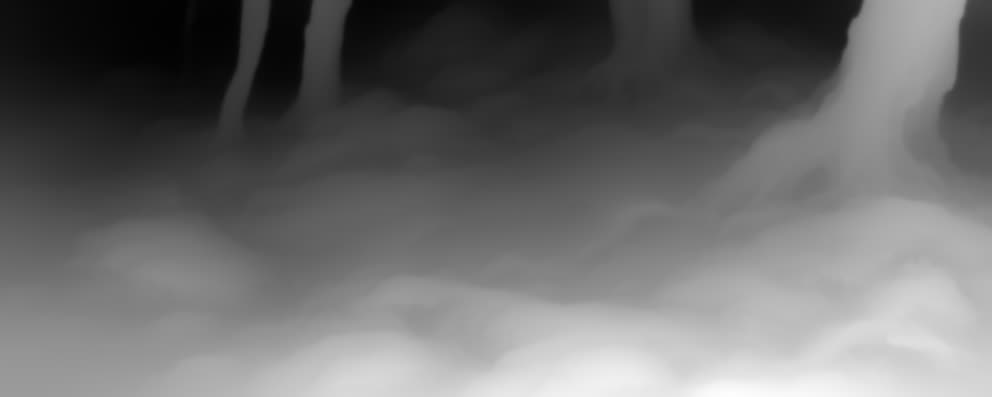
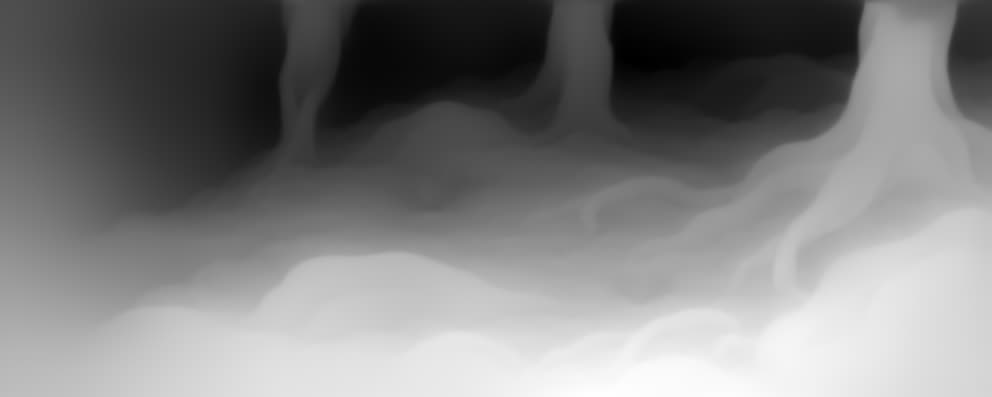
辋川卧游·鹿柴：四幅画按唐人画法重画（勾线平涂，无皴无渲染）
懂画的人指出上一版的青绿带渲染，唐代没有；改照《女史箴图》唐摹本的画法：以线为主、
颜色淡而平、苔与树丛细线圈出再填色，画上不画光影。返照与树影全由着色器叠。

diff --git a/wangchuan/main.js b/wangchuan/main.js
@@ -26,10 +26,10 @@ precision highp float;
 uniform sampler2D uTex, uDepth;
 uniform vec2 uRes, uPar, uLight, uLightR;
 uniform vec2 uTr[4];
-uniform float uCx, uZoom, uPush, uTime, uR, uVeil, uPaper, uWarm, uGlow, uBaked, uShadow, uDusk, uSun;
+uniform float uCx, uZoom, uPush, uTime, uR, uVeil, uPaper, uWarm, uGlow, uShadow, uDusk, uSun;
 
 const vec3 PAPER = vec3(0.885, 0.795, 0.625);
-const vec3 MIST = vec3(0.815, 0.725, 0.500);
+const vec3 MIST = vec3(0.880, 0.720, 0.400);
 
 float hash(vec2 p){ p = fract(p * vec2(123.34, 456.21)); p += dot(p, p + 45.32); return fract(p.x * p.y); }
 float noise(vec2 p){ vec2 i = floor(p), f = fract(p); f = f*f*(3.-2.*f);
@@ -65,7 +65,7 @@ void main(){
     float band = smoothstep(0.10, 0.38, w.y) * smoothstep(0.98, 0.60, w.y);
     float n = fbm(vec2(w.x * 1.25 - uTime * 0.011, w.y * 2.4 + uTime * 0.004));
     float breath = 0.5 + 0.5 * sin(uTime * 0.42);
-    col = mix(col, MIST, far * band * smoothstep(0.38, 0.78, n) * (0.16 + 0.12 * breath));
+    col = mix(col, MIST, far * band * smoothstep(0.38, 0.78, n) * (0.10 + 0.08 * breath));
 
     // 返景：落下来的那片暖色，是染出来的，不是光柱。
     vec2 e = (q - uLight) / uLightR;
@@ -84,10 +84,10 @@ void main(){
     }
     float shade = clamp(leaf * 0.55 + trunk * 0.95, 0.0, 1.0) * uShadow;
     float flick = 0.86 + 0.14 * sin(uTime * 0.31 + 1.3) * sin(uTime * 0.13);
-    // 画里本来就染了这片暖色；光还没照进来、或者已经移走时，把它压暗
-    col *= 1.0 - (1.0 - uBaked) * 0.30 * smoothstep(0.02, 0.7, g);
-    col += vec3(0.50, 0.36, 0.06) * g * flick * uGlow * (1.0 - 0.80 * shade) * (0.55 + 0.45 * smoothstep(0.2, 0.8, d));
-    col *= 1.0 - 0.22 * shade * smoothstep(0.05, 0.6, g) * uGlow;
+    // 画是勾线平涂的，上面不画光；这片暖色是叠上去的：先把绢色提亮染暖，再在光里压出影子
+    float lit = g * flick * uGlow;
+    col = col * (1.0 + vec3(0.30, 0.22, 0.02) * lit) + vec3(0.16, 0.10, 0.00) * lit * (1.0 - 0.85 * shade);
+    col *= 1.0 - 0.30 * shade * smoothstep(0.05, 0.6, g) * min(1.0, uGlow * 1.6);
     // 日头落下去以后，林子略略沉下来
     col *= mix(vec3(1.0), vec3(0.84, 0.86, 0.90), uDusk);
 
@@ -121,7 +121,7 @@ void main(){
   const loc = gl.getAttribLocation(prog, 'a');
   gl.enableVertexAttribArray(loc); gl.vertexAttribPointer(loc, 2, gl.FLOAT, false, 0, 0);
   const U = {};
-  for (const n of ['uTex', 'uDepth', 'uRes', 'uPar', 'uLight', 'uLightR', 'uCx', 'uZoom', 'uPush', 'uTime', 'uR', 'uVeil', 'uPaper', 'uWarm', 'uGlow', 'uBaked', 'uShadow', 'uDusk', 'uSun', 'uTr']) U[n] = gl.getUniformLocation(prog, n);
+  for (const n of ['uTex', 'uDepth', 'uRes', 'uPar', 'uLight', 'uLightR', 'uCx', 'uZoom', 'uPush', 'uTime', 'uR', 'uVeil', 'uPaper', 'uWarm', 'uGlow', 'uShadow', 'uDusk', 'uSun', 'uTr']) U[n] = gl.getUniformLocation(prog, n);
 
   function loadTex(src) {
     return new Promise((res, rej) => {
@@ -218,22 +218,22 @@ void main(){
       gl.uniform1f(U.uWarm, s.warm);
 
       // 光：第三景里从右边照进来、落到苔上；第四景里停在苔上，树影慢慢挪，末了移走
-      let lx = 0, ly = 0, glow = 0, baked = 1, shadow = 0, dusk = 0, sun = 0;
+      let lx = 0, ly = 0, glow = 0, shadow = 0, dusk = 0, sun = 0;
       if (s.light) {
         const li = s.light; lx = li.u; ly = li.v;
         if (li.enterFrom) {
           const k = L.ease(L.clamp01(u / li.arrive));
           lx = li.enterFrom[0] + (li.u - li.enterFrom[0]) * k; ly = li.enterFrom[1] + (li.v - li.enterFrom[1]) * k;
-          glow = 0.20 + 0.22 * k; baked = k; shadow = 0.35 + 0.45 * k; sun = 0.2 * u;
+          glow = 0.35 + 0.45 * k; shadow = 0.35 + 0.50 * k; sun = 0.2 * u;
         } else {
           const gone = L.ease(L.clamp01((u - li.leave) / (1 - L.FADE - li.leave)));
           lx = li.u - 0.05 * u; ly = li.v - 0.012 * u;
-          glow = 0.34 * (1 - gone); baked = 1 - gone; shadow = 1; dusk = gone; sun = 0.3 + 0.7 * u;
+          glow = 0.85 * (1 - gone); shadow = 1; dusk = gone; sun = 0.3 + 0.7 * u;
         }
         gl.uniform2f(U.uLightR, li.ru, li.rv);
       } else gl.uniform2f(U.uLightR, 0.05, 0.05);
       gl.uniform2f(U.uLight, lx, ly);
-      gl.uniform1f(U.uGlow, s.light ? glow : 0); gl.uniform1f(U.uBaked, baked);
+      gl.uniform1f(U.uGlow, s.light ? glow : 0);
       gl.uniform1f(U.uShadow, shadow); gl.uniform1f(U.uDusk, dusk); gl.uniform1f(U.uSun, sun);
       gl.uniform2fv(U.uTr, new Float32Array((s.trunks || [[9, 9], [9, 9], [9, 9], [9, 9]]).flat()));
     } else {

diff --git a/wangchuan/layout.js b/wangchuan/layout.js
@@ -15,14 +15,14 @@
   // light：返照落在画里的位置和大小（没有就不写）。trunks：会在返照里落影的几根树干，[横向位置, 树根的纵向位置]。
   // seconds：没人碰时这一景自己走多久。voice：这一景里人语有多近。warm：傍晚的暖意有多重。
   const SCENES = [
-    { key: 's1', line: '空山不见人', from: 0.66, to: 0.30, seconds: 16, voice: 0.12, warm: 0.25 },
-    { key: 's2', line: '但闻人语响', from: 0.80, to: 0.34, seconds: 17, voice: 1.00, warm: 0.45 },
-    { key: 's3', line: '返景入深林', from: 0.78, to: 0.60, seconds: 20, voice: 0.45, warm: 0.80,
-      light: { u: 0.728, v: 0.805, ru: 0.060, rv: 0.034, enterFrom: [0.99, 0.56], arrive: 0.45 },
-      trunks: [[0.80, 0.74], [0.87, 0.70], [0.94, 0.73], [0.77, 0.69]] },
-    { key: 's4', line: '复照青苔上', from: 0.64, to: 0.52, seconds: 22, voice: 0.20, warm: 1.00,
-      light: { u: 0.60, v: 0.46, ru: 0.15, rv: 0.16, leave: 0.72 },
-      trunks: [[0.93, 0.36], [0.65, 0.20], [0.72, 0.30], [0.33, 0.22]] },
+    { key: 's1', line: '空山不见人', from: 0.68, to: 0.40, seconds: 16, voice: 0.12, warm: 0.25 },
+    { key: 's2', line: '但闻人语响', from: 0.80, to: 0.36, seconds: 17, voice: 1.00, warm: 0.45 },
+    { key: 's3', line: '返景入深林', from: 0.78, to: 0.58, seconds: 20, voice: 0.45, warm: 0.80,
+      light: { u: 0.63, v: 0.80, ru: 0.085, rv: 0.050, enterFrom: [0.99, 0.50], arrive: 0.45 },
+      trunks: [[0.72, 0.72], [0.80, 0.63], [0.88, 0.56], [0.57, 0.78]] },
+    { key: 's4', line: '复照青苔上', from: 0.60, to: 0.47, seconds: 22, voice: 0.20, warm: 1.00,
+      light: { u: 0.52, v: 0.62, ru: 0.16, rv: 0.17, leave: 0.72 },
+      trunks: [[0.88, 0.45], [0.72, 0.52], [0.57, 0.27], [0.30, 0.33]] },
   ];
   const N = SCENES.length;
   const HOLD = 4;                     // 开场停几秒才开始自己走

diff --git a/wangchuan/index.html b/wangchuan/index.html
@@ -4,7 +4,7 @@
 <meta charset="utf-8">
 <meta name="viewport" content="width=device-width, initial-scale=1, viewport-fit=cover, user-scalable=no">
 <title>鹿柴 · 辋川卧游</title>
-<meta name="description" content="王维《鹿柴》，一段可以走进去的盛唐青绿山水。">
+<meta name="description" content="王维《鹿柴》，四句诗四幅画，一幅一幅往山里走。">
 <meta name="theme-color" content="#6b5630">
 <style>
   html, body { margin: 0; height: 100%; background: #6b5630; overflow: hidden; overscroll-behavior: none; }
@@ -42,9 +42,9 @@
 </style>
 </head>
 <body>
-<canvas id="scroll" aria-label="王维《鹿柴》：四句诗四幅青绿山水，一幅一幅往山里走"></canvas>
+<canvas id="scroll" aria-label="王维《鹿柴》：四句诗四幅画，一幅一幅往山里走"></canvas>
 <img id="poem" src="assets/poem.png" alt="鹿柴　空山不见人，但闻人语响。返景入深林，复照青苔上。　王维" decoding="async">
-<p id="note">辋川卧游 · 鹿柴<br>画与字皆为 AI 依盛唐青绿、盛唐小楷之法新作，并非古迹。</p>
+<p id="note">辋川卧游 · 鹿柴<br>画与字皆为 AI 依唐人勾线平涂、盛唐小楷之法新作，并非古迹。</p>
 <div id="hint">轻触有声</div>
 <button id="mute" aria-label="声音开关">声</button>
 <div id="fallback"><img src="assets/s3.jpg" alt=""></div>

diff --git a/index.html b/index.html
@@ -108,7 +108,7 @@
 
     <a class="card" href="wangchuan/">
       <p class="name">辋川卧游 · 鹿柴<span class="en">wangchuan</span></p>
-      <p class="desc">王维《鹿柴》，四句诗四幅盛唐青绿画风的画，一幅一幅往山里走：远望空山，林边闻人语，斜阳照进深林，返照落在青苔上、树影慢慢挪。走到头，卷尾素纸上诗一行行显出来。留两秒也有两秒的收获。</p>
+      <p class="desc">王维《鹿柴》，四句诗四幅照唐人勾线平涂画法的画，一幅一幅往山里走：远望空山，林边闻人语，斜阳照进深林，返照落在青苔上、树影慢慢挪。走到头，卷尾素纸上诗一行行显出来。留两秒也有两秒的收获。</p>
       <p class="meta">走进画里 · 移步换景 · 不用操作也行 · 两秒到一分半 · 手机竖屏 · 轻触有声</p>
     </a>
 

diff --git a/README.md b/README.md
@@ -15,7 +15,7 @@ Small things built for fun. One repo, one subfolder each, one Pages site. The fr
 | [Foyer · Five Minutes Before Curtain](show-foyer/) · [play](https://aliceljy.github.io/playground/show-foyer/) | A small online foyer before a show, five minutes a sitting: one stage, twelve seats, strangers waiting together. No chat; you can only sit, light a lantern, clap, pass tea to a neighbour, photograph the stage, leaf through the programme, leave. A full hall opens the next; a gong on the hour; drums warming up backstage; three bells, house lights down, the curtain parts and the show begins. The others are replays of your own earlier visits kept in the browser, plus grey figures labelled as not people. Take a "who was here tonight" picture when you go. The show named is a real touring production, title and company from public reports | 2D canvas, seating rules, visit replay, bells and backstage schedule in a Node-tested core, synthesised sound, no server and no requests, phone portrait |
 | [Which Pillar Are You?](yueju-pillars/) · [play](https://aliceljy.github.io/playground/yueju-pillars/) | A Cantonese opera troupe stands on six leading performers, the six pillars. Answer eight everyday questions to find which pillar you are, read a few sourced facts about it and the role you would play in *The Flower Princess*, then long-press to save a share image | Plain HTML and a canvas share image; questions, facts and scoring in a Node-testable core that checks the result spread over all 4^8 answer sets; phone portrait |
 | [Drizzle at Jianmen](jianmen-drizzle/) · [play](https://aliceljy.github.io/playground/jianmen-drizzle/) | Step into Gao Jianfu's 1926 landscape, painted after Lu You's poem about riding a donkey into Jianmen Pass in the rain. In drizzle and drifting cloud, turn your head to find the four places the poem names; each one you settle on brushes a line onto the poem slip. Turn around to see the half the painter never painted | Gaussian-splat scene generated from one painting with PINOC (Viggle JST-2), on PlayCanvas; mist and waterfall in the shader, synthesised rain; keyboard/mouse and touch |
-| [Wangchuan, Lying Down · Deer Park](wangchuan/) · [play](https://aliceljy.github.io/playground/wangchuan/) | Wang Wei's poem "Deer Park": four lines, four paintings in High Tang blue-and-green, walked one after another into the hills. Empty mountains from afar, voices at the edge of the wood, late sun entering the deep wood, light and creeping tree shadows on the moss; then the poem appears on plain paper. Two seconds is enough to get something | AI-generated paintings and calligraphy (with early blue-and-green landscapes and High Tang small regular script as references), a depth map per painting plus one full-screen shader for push-in, mist, light, shadows and scene changes, Web Audio wind, no build, no dependencies |
+| [Wangchuan, Lying Down · Deer Park](wangchuan/) · [play](https://aliceljy.github.io/playground/wangchuan/) | Wang Wei's poem "Deer Park": four lines, four paintings in the Tang manner of fine outline and flat colour, walked one after another into the hills. Empty mountains from afar, voices at the edge of the wood, late sun entering the deep wood, light and creeping tree shadows on the moss; then the poem appears on plain paper. Two seconds is enough to get something | AI-generated paintings and calligraphy (with the Tang copy of the Admonitions scroll and High Tang small regular script as references), a depth map per painting plus one full-screen shader for push-in, mist, light, shadows and scene changes, Web Audio wind, no build, no dependencies |
 | [Back to the Pit](yingge-pit/) · [play](https://aliceljy.github.io/playground/yingge-pit/) | On a little Yingge stage a white-robed puppet climbs out of the orchestra pit; tap a lane the moment its iron rod lights and a Yingge paper puppet bats it back down. Three waves, a big gong, and two players can share one phone | 2D canvas, stage and puppets from a short film's art, the boss drawn in code, synthesised gongs and drums, touch and keyboard, portrait or landscape |
 | [Herb Match](herb-match/) · [play](https://aliceljy.github.io/playground/herb-match/) | Herbs fall from an apothecary shelf; file each into the cold, cool, warm or hot basket before it lands, and a wrong answer flips its label to explain. For learning the four natures, not medical advice | 2D canvas, flat herbs drawn in code, synthesised sound, touch and mouse, portrait or landscape |
 | [Drug Mystery Desk](https://github.com/AliceLJY/drug-mystery-desk) · [play](https://aliceljy.github.io/drug-mystery-desk/) | Seven fictional clinical-trial mysteries: read the exhibits, link the clues, break the testimony, and close the case only with a complete chain of evidence. Lives in its own repository; only the shelf entry is here | Single-file React build, progress kept in the browser, phone or desktop |

diff --git a/wangchuan/README.md b/wangchuan/README.md
@@ -10,7 +10,7 @@ Two seconds is enough to get something. You never have to finish it.
 
 - One line: look at a landscape the way old viewers "travelled lying down" (woyou): the painting first, the poem later. Main aesthetics are sensation and immersion. It is an arc you pass through once, not a loop you replay.
 - Setting: a stranger opens it on a phone, portrait, probably muted, and stays anywhere from two seconds to a bit over a minute. So the first frame has to stand by itself, and sound is a bonus.
-- Same period throughout: Wang Wei lived in the High Tang, so the painting follows High Tang blue-and-green landscape and the writing follows High Tang small regular script. The poem is not written on the painting; it sits on the paper at the tail of the scroll.
+- Same period throughout: Wang Wei lived in the High Tang, so the paintings follow the Tang way of fine outline and flat colour, and the writing follows High Tang small regular script. Graded washes did not exist yet in the Tang, so the paintings have none; the first version used a washed blue-and-green and was repainted after someone who knows painting pointed this out. The poem is not written on the painting; it sits on the paper at the tail of the scroll.
 - No explanatory text. The only words on screen are one credit line at the tail, a sound hint, and a sound toggle.
 - Colours: the painting is what it is; mount strip around sRGB `#3C3428`, tail paper around sRGB `#E2CB9F`, ink `#261E16`.
 - Budget: 60 fps on a phone browser; one full-screen shader, one draw call, two textures bound at a time (the current scene's painting at 3172×1268 and its depth at 992×397), scenes loading in the background; device pixel ratio capped at 2.
@@ -29,9 +29,9 @@ Within each scene the view unrolls leftward and pushes a little way into the pai
 
 ## How it was made
 
-- Paintings: all four are AI-generated (Codex). Scene 3 came first, with two early blue-and-green landscapes as references (*Emperor Minghuang's Journey to Shu*, attributed to a Tang hand, and *Spring Excursion*, attributed to Zhan Ziqian, both from Wikimedia Commons), for colour texture and brushwork only, not composition. The other three were then painted with scene 3 as an extra reference, as further stretches of the same scroll. They are new images, not old paintings.
+- Paintings: all four are AI-generated (Codex) in the Tang manner: line first, colour second; rocks are outlines only, with no texture strokes, no graded washes and no light and shade inside the lines; colour is sparse, pale and flat, and most of the surface is bare silk; moss and foliage are small scalloped clusters outlined in fine line and then filled with pale green. The main reference is the mountain passage of the Tang copy of *Admonitions of the Court Instructress*, for manner only, not composition. No light or shadow is painted. They are new images, not old paintings.
 - Writing: AI-generated, with the High Tang small-regular-script manuscript *Lingfei jing* (attributed to Zhong Shaojing, Metropolitan Museum, via Wikimedia Commons) as reference. All 24 characters were checked one by one, then the ink was lifted onto a transparent image.
-- Motion: the paintings are not cut into layers or repainted. Depth-Anything-V2 estimates a depth map for each, and a shader moves near things slightly more than far things, and grows them slightly faster as the view pushes in. Mist, the returning light, the shadows and the mist between scenes all live in that one shader. Trunk shadows are cast from where each painting's trees stand, and stretch as the sun sinks.
+- Motion: the paintings are not cut into layers or repainted. Depth-Anything-V2 estimates a depth map for each, and a shader moves near things slightly more than far things, and grows them slightly faster as the view pushes in. The paintings are flat; the warm returning light, the tree shadows on the moss, the far mist and the mist between scenes are all laid on by that one shader. Trunk shadows are cast from where each painting's trees stand, and stretch as the sun sinks.
 - Sound: wind is synthesised live with Web Audio; the distant voices are system speech synthesis with reverb and filtering, brought nearer or farther scene by scene.
 - No build step, no runtime dependencies.
 
@@ -45,4 +45,4 @@ These show it behaves as specified. Whether it is beautiful, whether the four pa
 
 ## Licence
 
-Code is MIT with the rest of this repository. The three reference works are in the public domain; none of their images are included in the page.
+Code is MIT with the rest of this repository. The reference works are in the public domain; none of their images are included in the page.

diff --git a/README_CN.md b/README_CN.md
@@ -15,7 +15,7 @@
 | [候场厅 · 开演前五分钟](show-foyer/) · [玩](https://aliceljy.github.io/playground/show-foyer/) | 一出戏开演前的线上候场厅，五分钟一场：一座戏台、十二个座，和陌生人一起等开演。没有聊天框，只能落座、点灯、鼓掌、给邻座递茶、拍舞台、翻节目单、离席；厅满自动开下一厅，整点一声锣，幕后有鼓点在热身，三遍铃、场灯渐暗、幕布拉开就开演。厅里的别人是浏览器记着的你自己前几次来访的回放，人少时补三个标明「非真人」的灰色身影；散场领一张「今晚谁来过」合影图。戏名与演出单位是真实巡演剧目的公开信息，以后有新戏会换 | 二维画布；分厅、来访回放、三遍铃与幕后日程在 Node 可测的核心里；合成音效；无服务器无请求；手机竖屏 |
 | [你是哪一根柱](yueju-pillars/) · [玩](https://aliceljy.github.io/playground/yueju-pillars/) | 粤剧剧团靠六位主演撑起整台戏，叫六柱制。答八道日常小题，看你是哪一柱，读几条有出处的粤剧知识、看你在《帝女花》里演谁，长按保存分享图 | 普通 HTML 加画布分享图；题目、事实与计分在 Node 可测的核心里，测试穷举 4^8 种答法检查结果分布；手机竖屏 |
 | [细雨剑门](jianmen-drizzle/) · [玩](https://aliceljy.github.io/playground/jianmen-drizzle/) | 走进高剑父 1926 年的《山水》（写陆游「细雨骑驴入剑门」诗意），细雨和流云里转头找诗里写的四处，每看准一处诗笺写出一句；转过身，是画家没画的那一半 | PINOC（Viggle JST-2）一张画生成的高斯泼溅场景 + PlayCanvas，着色器里的流云与飞瀑，合成雨声，键鼠与触屏 |
-| [辋川卧游 · 鹿柴](wangchuan/) · [玩](https://aliceljy.github.io/playground/wangchuan/) | 王维《鹿柴》，四句诗四幅盛唐青绿画风的画，一幅一幅往山里走：远望空山，林边闻人语，斜阳照进深林，返照落在青苔上、树影慢慢挪；卷尾素纸上诗一行行显出来。留两秒也有两秒的收获 | AI 生图（带传世早期青绿与盛唐小楷作参考），每幅一张深度图加一个全屏着色器做推镜、云气、返照、树影与换景，Web Audio 合成风声，无构建无依赖 |
+| [辋川卧游 · 鹿柴](wangchuan/) · [玩](https://aliceljy.github.io/playground/wangchuan/) | 王维《鹿柴》，四句诗四幅照唐人勾线平涂画法的画，一幅一幅往山里走：远望空山，林边闻人语，斜阳照进深林，返照落在青苔上、树影慢慢挪；卷尾素纸上诗一行行显出来。留两秒也有两秒的收获 | AI 生图（带《女史箴图》唐摹本与盛唐小楷作参考），每幅一张深度图加一个全屏着色器做推镜、云气、返照、树影与换景，Web Audio 合成风声，无构建无依赖 |
 | [打回乐池](yingge-pit/) · [玩](https://aliceljy.github.io/playground/yingge-pit/) | 英歌小戏台上，白衣木偶从乐池往上爬，铁枝一亮就点那一道，英歌纸偶出槌把它打回去；三波、大锣「大英歌」，两个人可以同一台手机一起打 | 二维画布，短片素材拼的戏台与纸偶，代码画的木偶，合成锣鼓，触屏与键盘，竖屏横屏都行 |
 | [药性配对](herb-match/) · [玩](https://aliceljy.github.io/playground/herb-match/) | 药材从药柜上落下，赶在落地前分进寒、凉、温、热四个药篓；分错了药签翻面讲为什么。只为认识四气，不是医疗建议 | 二维画布，代码画的扁平药材，合成音效，触屏与鼠标，竖屏横屏都行 |
 | [药研悬案局](https://github.com/AliceLJY/drug-mystery-desk) · [玩](https://aliceljy.github.io/drug-mystery-desk/) | 七宗临床试验悬案：读证物、连线索、击破证词，证据链完整才能结案。案件纯属虚构。独立仓作品，这里只放入口 | React 单文件版，进度存浏览器本地，手机电脑都行 |

diff --git a/wangchuan/README_CN.md b/wangchuan/README_CN.md
@@ -10,7 +10,7 @@
 
 - 体验一句话：像古人「卧游」那样看一段山水，先见画，后见诗。主美学是感官与沉浸；只走一遍的弧型，不是反复玩的循环型。
 - 场地：陌生访客用手机竖屏打开，多半静音，停留从两秒到一分多钟不等。所以第一眼必须成立，声音是加分不是前提。
-- 年代一致：王维是盛唐人，画取盛唐青绿，字取盛唐小楷。画面上不题诗，诗在卷尾素纸上。
+- 年代一致：王维是盛唐人，画照唐人的勾线平涂，字取盛唐小楷。唐代没有渲染，所以画上没有浓淡过渡；第一版用过带渲染的青绿，经懂画的人指出后重画。画面上不题诗，诗在卷尾素纸上。
 - 页面不放解说。屏幕上的字只有卷尾一行署名说明、一个声音提示和一个声音开关。
 - 配色不另定：画心的颜色就是那张画；隔水 sRGB `#3C3428` 上下，卷尾素纸 sRGB `#E2CB9F` 上下，题诗墨色 `#261E16`。
 - 性能预算：手机浏览器 60 帧；一个全屏着色器、一次绘制，同时只用两张贴图（当前这景的画 3172×1268 和深度 992×397），四景陆续在后台载入；设备像素比封顶 2。
@@ -29,9 +29,9 @@
 
 ## 怎么做的
 
-- 画：四幅都是 AI 生图（Codex）。第三景先画，带两幅传世的早期青绿当参考（传唐人《明皇幸蜀图》、传展子虔《游春图》，取自维基共享资源），只学设色质感和用笔，不抄构图；其余三景再带上第三景当参考，画成同一卷的另外几段。画的是新作，不是古画。
+- 画：四幅都是 AI 生图（Codex），照唐代的画法：以线为主、以色为辅；山石只勾轮廓，线内不皴、不渲染、没有明暗；颜色很少很淡很平，大半是绢色；苔和树丛一簇簇用细线圈出来再填淡绿。主要参考是《女史箴图》唐摹本里画山的一段，只学画法，不抄构图。画上不画光也不画影。画的是新作，不是古画。
 - 字：AI 生图，带盛唐小楷墨迹《灵飞经》（传钟绍京，大都会博物馆藏，取自维基共享资源）当参考；二十四个字逐字核对过，再抠成只有墨迹的透明图。
-- 动：画不拆层、不补画。用 Depth-Anything-V2 给每幅画算一张深度图，着色器按深度让近处比远处多动一点、往里推时近处涨得快一点；云气、返照、树影、换景的云都在同一个着色器里。树干的斜影按每幅画里树根的位置投出去，日头越低拖得越长。
+- 动：画不拆层、不补画。用 Depth-Anything-V2 给每幅画算一张深度图，着色器按深度让近处比远处多动一点、往里推时近处涨得快一点；画是平的，「返景」的暖光、苔上的树影、远处的云气和换景的云，都是同一个着色器叠上去的。树干的斜影按每幅画里树根的位置投出去，日头越低拖得越长。
 - 声：风声是 Web Audio 实时合成的；远处的喊话是系统语音合成后加混响和滤波，按景调远近。
 - 没有构建步骤，没有运行时依赖。
 
@@ -45,4 +45,4 @@
 
 ## 许可
 
-代码随本仓 MIT。三幅参考古画与法书为公有领域作品，页面里不含它们的图像。
+代码随本仓 MIT。参考的古画与法书为公有领域作品，页面里不含它们的图像。
